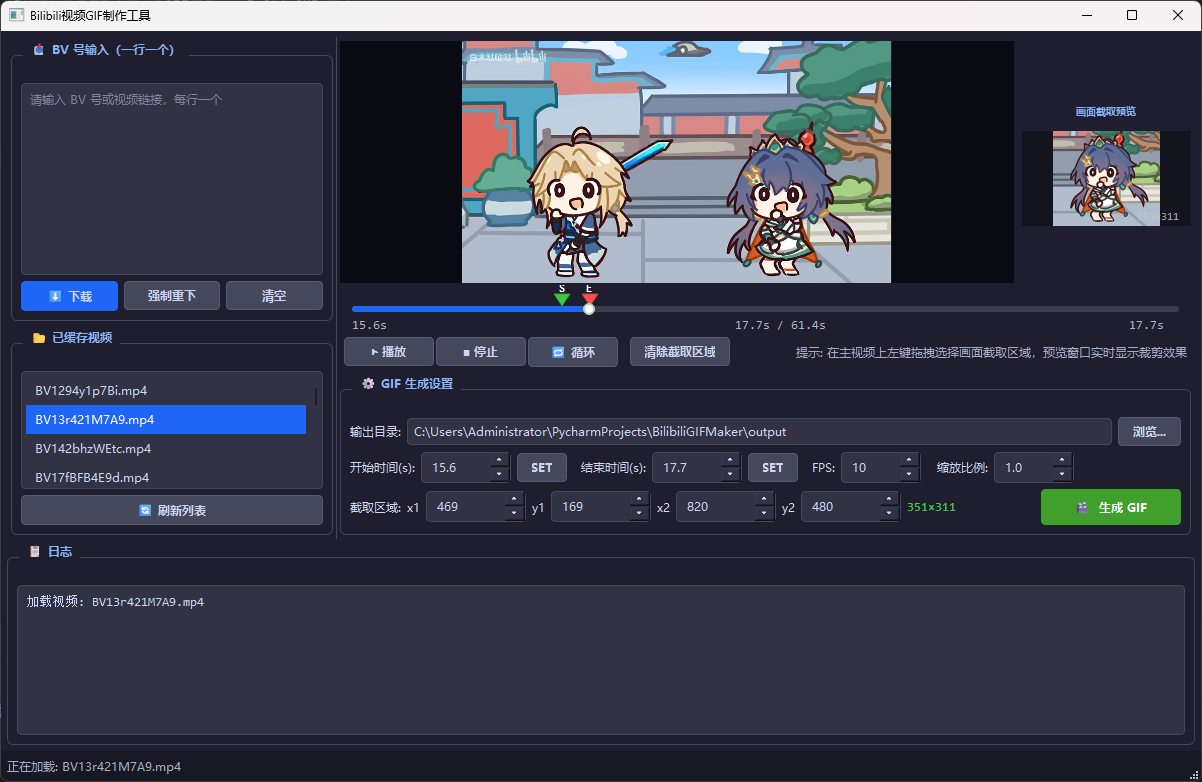
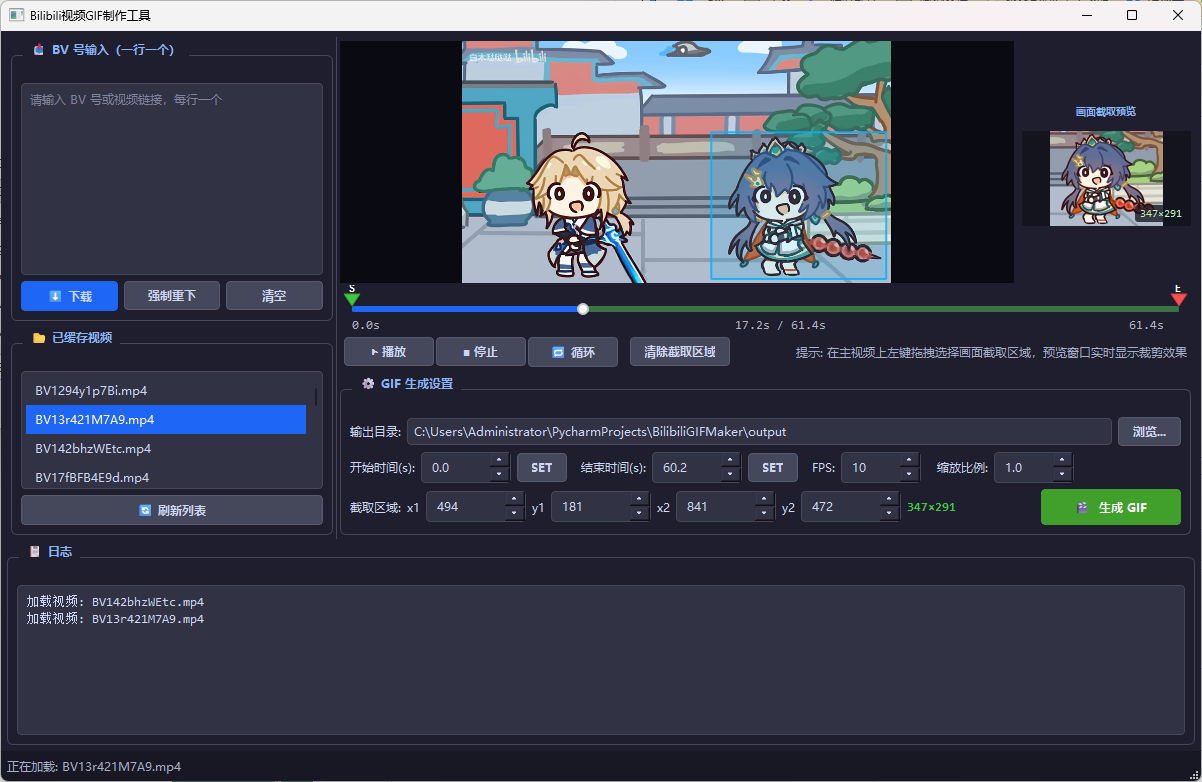
feat(roi): 添加ROI选区的拖拽和调整功能
feat(roi): 添加ROI选区的拖拽和调整功能

- 导入QRectF用于浮点坐标矩形支持
- 添加拖拽和调整状态变量(_resize_edge, _resize_orig_rect)
- 实现get_drag_ui_rect方法获取交互过程中的选区坐标
- 添加clear_roi时清理调整状态
- 实现_hit_test_roi_edge检测鼠标是否靠近ROI边缘
- 在事件过滤器中处理鼠标按下、移动、释放事件
- 实现resize模式下的ROI调整逻辑
- 添加_get_cursor_for_edge方法返回对应边缘的鼠标指针
- 在MainVideoWidget中添加ROIOverlay引用
- 实现_paintEvent中绘制ROI选区半透明覆盖层
- 更新ROI预览窗口的尺寸标签样式
- 连接ROI变化信号以触发视频重绘

diff --git a/BilibiliGIFMaker_GUI.py b/BilibiliGIFMaker_GUI.py
@@ -52,7 +52,7 @@ from PyQt6.QtWidgets import (
 )
 from PyQt6.QtCore import (
     Qt, QThread, pyqtSignal, QUrl, QTimer, QRect, QPoint, QSize,
-    QEvent, QObject,
+    QEvent, QObject, QRectF,
 )
 from PyQt6.QtGui import (
     QPainter, QColor, QPen, QBrush, QFont, QMouseEvent, QPaintEvent,
@@ -763,10 +763,14 @@ class ROIOverlay(QObject):
         # ROI 矩形（原视频坐标系）
         self.roi_rect: Optional[tuple] = None  # (x1, y1, x2, y2)
 
-        # 拖拽状态
+        # 拖拽/调整 状态
         self._drawing = False
         self._start_ui = QPoint()
         self._current_ui = QPoint()
+
+        # 边缘 resize 状态
+        self._resize_edge: Optional[str] = None  # 'tl','tr','bl','br','t','b','l','r'
+        self._resize_orig_rect: Optional[tuple] = None  # resize 开始时的原始 roi_rect
 
     # ---------- 坐标映射 ----------
 
@@ -795,6 +799,27 @@ class ROIOverlay(QObject):
         uy = vy * self.scale + self.off_y
         return ux, uy
 
+    # ---------- 获取当前交互选区 ----------
+
+    def get_drag_ui_rect(self) -> Optional[tuple]:
+        """
+        返回当前交互（拖拽或 resize）中的选区在 UI 控件坐标系下的矩形坐标。
+        仅在进行中时返回有效值，用于实时绘制覆盖层。
+        """
+        if self._resize_edge and self.roi_rect:
+            # resize 中：将当前 roi_rect 转换为 UI 坐标
+            vx1, vy1, vx2, vy2 = self.roi_rect
+            ux1, uy1 = self.video_to_ui(vx1, vy1)
+            ux2, uy2 = self.video_to_ui(vx2, vy2)
+            return (ux1, uy1, ux2, uy2)
+        if self._drawing:
+            x1 = min(self._start_ui.x(), self._current_ui.x())
+            y1 = min(self._start_ui.y(), self._current_ui.y())
+            x2 = max(self._start_ui.x(), self._current_ui.x())
+            y2 = max(self._start_ui.y(), self._current_ui.y())
+            return (x1, y1, x2, y2)
+        return None
+
     # ---------- 设置视频分辨率 ----------
 
     def set_video_resolution(self, w: int, h: int):
@@ -802,6 +827,8 @@ class ROIOverlay(QObject):
         self.orig_w = w
         self.orig_h = h
         self.roi_rect = None
+        self._resize_edge = None
+        self._resize_orig_rect = None
         self.update_mapping()
         self._video.update()
 
@@ -816,10 +843,47 @@ class ROIOverlay(QObject):
 
     def clear_roi(self):
         self.roi_rect = None
+        self._resize_edge = None
+        self._resize_orig_rect = None
         self.roi_changed.emit(None)
         self._video.update()
 
-    # ---------- 事件过滤器（拦截鼠标事件用于 ROI 拖拽） ----------
+    # ---------- 事件过滤器（拦截鼠标事件用于 ROI 拖拽 / 调整） ----------
+
+    def _get_video_display_rect(self) -> tuple:
+        """返回视频显示区域的 UI 坐标边界 (left, top, right, bottom)"""
+        self.update_mapping()
+        l = self.off_x
+        t = self.off_y
+        r = self.off_x + self.orig_w * self.scale
+        b = self.off_y + self.orig_h * self.scale
+        return l, t, r, b
+
+    def _hit_test_roi_edge(self, ui_pos) -> Optional[str]:
+        """
+        检测鼠标是否靠近已有 ROI 的边缘。
+        返回边缘标识：'tl','tr','bl','br','t','b','l','r' 或 None。
+        """
+        if not self.roi_rect:
+            return None
+        vx1, vy1, vx2, vy2 = self.roi_rect
+        ux1, uy1 = self.video_to_ui(vx1, vy1)
+        ux2, uy2 = self.video_to_ui(vx2, vy2)
+        px, py = ui_pos.x(), ui_pos.y()
+        threshold = 8
+        near_l = abs(px - ux1) <= threshold
+        near_r = abs(px - ux2) <= threshold
+        near_t = abs(py - uy1) <= threshold
+        near_b = abs(py - uy2) <= threshold
+        if near_l and near_t: return 'tl'
+        if near_r and near_t: return 'tr'
+        if near_l and near_b: return 'bl'
+        if near_r and near_b: return 'br'
+        if near_l: return 'l'
+        if near_r: return 'r'
+        if near_t: return 't'
+        if near_b: return 'b'
+        return None
 
     def eventFilter(self, obj, event):
         """拦截 MainVideoWidget 上的鼠标事件"""
@@ -836,25 +900,103 @@ class ROIOverlay(QObject):
 
     def _on_press(self, ev):
         if ev.button() == Qt.MouseButton.LeftButton:
+            # ① ROI 已存在 → 检查是否靠近边缘（resize 模式）
+            if self.roi_rect:
+                edge = self._hit_test_roi_edge(ev.pos())
+                if edge:
+                    self._resize_edge = edge
+                    self._resize_orig_rect = self.roi_rect
+                    self._video.update()
+                    return True
+            # ② 否则开始全新的拖拽选区
             self._drawing = True
             self._start_ui = ev.pos()
             self._current_ui = ev.pos()
             self.roi_rect = None
+            self._resize_edge = None
+            self._resize_orig_rect = None
             self._video.update()
             return True
         return False
 
     def _on_move(self, ev):
-        if self._drawing:
-            self._current_ui = ev.pos()
+        # ① resize 模式：实时更新 ROI 矩形 + 设置对应方向光标
+        if self._resize_edge:
+            self._update_resize_rect(ev.pos())
+            self._video.setCursor(self._get_cursor_for_edge(self._resize_edge))
             self._video.update()
             return True
+        # ② 拖拽模式：钳位到视频显示区域 + 实时更新
+        if self._drawing:
+            l, t, r, b = self._get_video_display_rect()
+            cx = max(l, min(float(ev.pos().x()), r))
+            cy = max(t, min(float(ev.pos().y()), b))
+            self._current_ui = QPoint(round(cx), round(cy))
+            self._video.update()
+            return True
+        # ③ 悬停检测：靠近 ROI 边缘时提示可拖拽
+        if self.roi_rect:
+            edge = self._hit_test_roi_edge(ev.pos())
+            if edge:
+                self._video.setCursor(self._get_cursor_for_edge(edge))
+                return False
+        self._video.setCursor(Qt.CursorShape.ArrowCursor)
         return False
 
+    @staticmethod
+    def _get_cursor_for_edge(edge: str) -> 'Qt.CursorShape':
+        """根据边缘方向返回对应的鼠标指针类型"""
+        mapping = {
+            'l': Qt.CursorShape.SizeHorCursor,
+            'r': Qt.CursorShape.SizeHorCursor,
+            't': Qt.CursorShape.SizeVerCursor,
+            'b': Qt.CursorShape.SizeVerCursor,
+            'tl': Qt.CursorShape.SizeFDiagCursor,
+            'br': Qt.CursorShape.SizeFDiagCursor,
+            'tr': Qt.CursorShape.SizeBDiagCursor,
+            'bl': Qt.CursorShape.SizeBDiagCursor,
+        }
+        return mapping.get(edge, Qt.CursorShape.ArrowCursor)
+
+    def _update_resize_rect(self, ui_pos):
+        """根据鼠标位置和当前调整的边缘，计算新的 ROI 矩形"""
+        if not self._resize_edge or not self._resize_orig_rect:
+            return
+        ox1, oy1, ox2, oy2 = self._resize_orig_rect
+        # 鼠标位置 → 原视频坐标（钳位到视频边界）
+        vx = max(0.0, min((ui_pos.x() - self.off_x) / self.scale, self.orig_w))
+        vy = max(0.0, min((ui_pos.y() - self.off_y) / self.scale, self.orig_h))
+        edge = self._resize_edge
+        if 'l' in edge:
+            ox1 = vx
+        if 'r' in edge:
+            ox2 = vx
+        if 't' in edge:
+            oy1 = vy
+        if 'b' in edge:
+            oy2 = vy
+        n_x1 = min(ox1, ox2)
+        n_y1 = min(oy1, oy2)
+        n_x2 = max(ox1, ox2)
+        n_y2 = max(oy1, oy2)
+        if n_x2 - n_x1 >= 4 and n_y2 - n_y1 >= 4:
+            self.roi_rect = (round(n_x1), round(n_y1), round(n_x2), round(n_y2))
+            self.roi_changed.emit(self.roi_rect)
+        else:
+            self.roi_rect = None
+            self.roi_changed.emit(None)
+
     def _on_release(self, ev):
+        # ① 结束 resize
+        if self._resize_edge and ev.button() == Qt.MouseButton.LeftButton:
+            self._resize_edge = None
+            self._resize_orig_rect = None
+            self._video.update()
+            return True
+        # ② 结束拖拽选区
         if ev.button() == Qt.MouseButton.LeftButton and self._drawing:
             self._drawing = False
-            self._current_ui = ev.pos()
+            # _current_ui 已在 _on_move 中钳位，直接用
             vx1, vy1 = self.ui_to_video(self._start_ui.x(), self._start_ui.y())
             vx2, vy2 = self.ui_to_video(self._current_ui.x(), self._current_ui.y())
             x1 = max(0, min(round(vx1), round(vx2)))
@@ -933,6 +1075,9 @@ class MainVideoWidget(QWidget):
         self._orig_w = 1920
         self._orig_h = 1080
 
+        # ROIOverlay 弱引用（用于读取拖拽状态和选区坐标）
+        self._roi_overlay: Optional['ROIOverlay'] = None
+
         # 背景颜色
         self.setAutoFillBackground(True)
         pal = self.palette()
@@ -948,8 +1093,14 @@ class MainVideoWidget(QWidget):
         self.frame_image = image
         self.repaint()
 
+    def set_roi_overlay(self, overlay: 'ROIOverlay'):
+        """设置 ROIOverlay 引用，用于在绘制时读取选区数据"""
+        self._roi_overlay = overlay
+
     def paintEvent(self, event: QPaintEvent):
         p = QPainter(self)
+        p.setRenderHint(QPainter.RenderHint.Antialiasing)
+
         if self.frame_image and not self.frame_image.isNull():
             img = self.frame_image
             # 等比例缩放
@@ -961,12 +1112,62 @@ class MainVideoWidget(QWidget):
             x = (self.width() - scaled.width()) // 2
             y = (self.height() - scaled.height()) // 2
             p.drawImage(x, y, scaled)
+
+            # ── 绘制 ROI 选区半透明覆盖层 ──
+            self._draw_roi_overlay(p)
         else:
             p.fillRect(self.rect(), QColor(30, 30, 40))
             p.setPen(QColor(120, 120, 140))
             p.setFont(QFont("Microsoft YaHei", 12))
             p.drawText(self.rect(), Qt.AlignmentFlag.AlignCenter, "等待载入视频...")
         p.end()
+
+    def _draw_roi_overlay(self, p: QPainter):
+        """在视频画面上绘制 ROI 选区半透明覆盖层"""
+        overlay = self._roi_overlay
+        if not overlay:
+            return
+
+        # 确保坐标映射最新
+        overlay.update_mapping()
+
+        ux1 = uy1 = ux2 = uy2 = None
+        is_dragging = False
+
+        # ① 优先读取拖拽中的选区（实时跟随鼠标）
+        drag_rect = overlay.get_drag_ui_rect()
+        if drag_rect:
+            ux1, uy1, ux2, uy2 = drag_rect
+            is_dragging = True
+        # ② 否则读取已确定的 ROI（拖拽完成 or SpinBox 编辑）
+        elif overlay.roi_rect:
+            vx1, vy1, vx2, vy2 = overlay.roi_rect
+            ux1, uy1 = overlay.video_to_ui(vx1, vy1)
+            ux2, uy2 = overlay.video_to_ui(vx2, vy2)
+
+        if ux1 is None:
+            return  # 无选区
+
+        # 构建矩形（钳位到控件范围内）
+        rect = QRectF(
+            max(0.0, ux1),
+            max(0.0, uy1),
+            max(4.0, ux2 - ux1),  # 最小宽度 4px
+            max(4.0, uy2 - uy1),  # 最小高度 4px
+        )
+
+        if is_dragging and overlay._drawing:
+            # 新拖拽中：更淡的填充，虚线边框
+            fill = QColor(0, 180, 255, 25)
+            border = QPen(QColor(0, 180, 255, 180), 2, Qt.PenStyle.DashLine)
+        else:
+            # 已确定或 resize 中：半透明填充 + 实线边框
+            fill = QColor(0, 180, 255, 40)
+            border = QPen(QColor(0, 180, 255, 220), 2)
+
+        p.setBrush(QBrush(fill))
+        p.setPen(border)
+        p.drawRect(rect)
 
 
 # ==============================================================================
@@ -1056,12 +1257,19 @@ class ROIPreviewWidget(QWidget):
                 y = (self.height() - scaled.height()) // 2
                 p.drawImage(x, y, scaled)
 
-                # 尺寸标签
-                p.setPen(QColor(200, 200, 200, 200))
+                # 尺寸标签（控件底部偏右，带暗色半透明背景，避免与画面底色混淆）
+                label_text = f"{x2 - x1}×{y2 - y1}"
                 p.setFont(QFont("Consolas", 8))
-                p.drawText(QRect(0, self.height() - 16, self.width(), 14),
-                           Qt.AlignmentFlag.AlignRight,
-                           f"{x2 - x1}×{y2 - y1}  ")
+                fm = p.fontMetrics()
+                lw = fm.horizontalAdvance(label_text) + 10
+                lh = fm.height() + 4
+                lx = self.width() - lw - 4
+                ly = self.height() - lh - 4
+                p.setBrush(QColor(20, 20, 30, 200))
+                p.setPen(Qt.PenStyle.NoPen)
+                p.drawRoundedRect(lx, ly, lw, lh, 3, 3)
+                p.setPen(QColor(200, 255, 200, 240))
+                p.drawText(lx + 5, ly + 2 + fm.ascent(), label_text)
             else:
                 p.setPen(QColor(130, 130, 150))
                 p.setFont(QFont("Microsoft YaHei", 9))
@@ -1102,7 +1310,11 @@ class VideoPlayerWidget(QWidget):
         self.roi_overlay = ROIOverlay(self.main_video)
         self.roi_overlay.roi_changed.connect(self.roi_changed)
         self.roi_overlay.roi_changed.connect(self._on_roi_for_preview)
+        self.roi_overlay.roi_changed.connect(lambda: self.main_video.update())  # ROI 变化时触发重绘
         self.main_video.installEventFilter(self.roi_overlay)
+
+        # 让 MainVideoWidget 持有 ROIOverlay 引用以读取选区数据
+        self.main_video.set_roi_overlay(self.roi_overlay)
 
         # 注册帧回调（接收 FfmpegPlayer 输出的解码帧）
         self.media_player.add_frame_callback(self._on_frame_changed)
